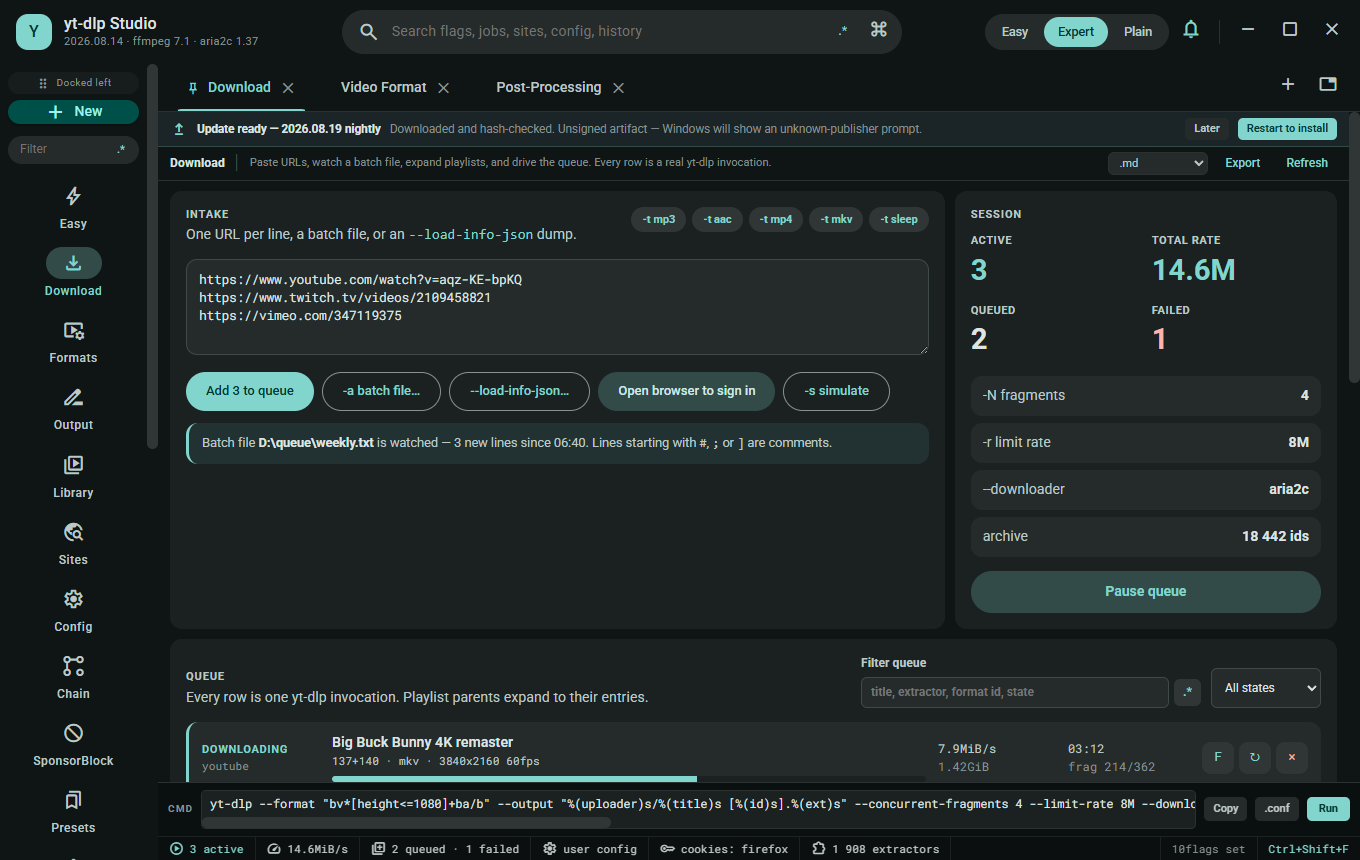
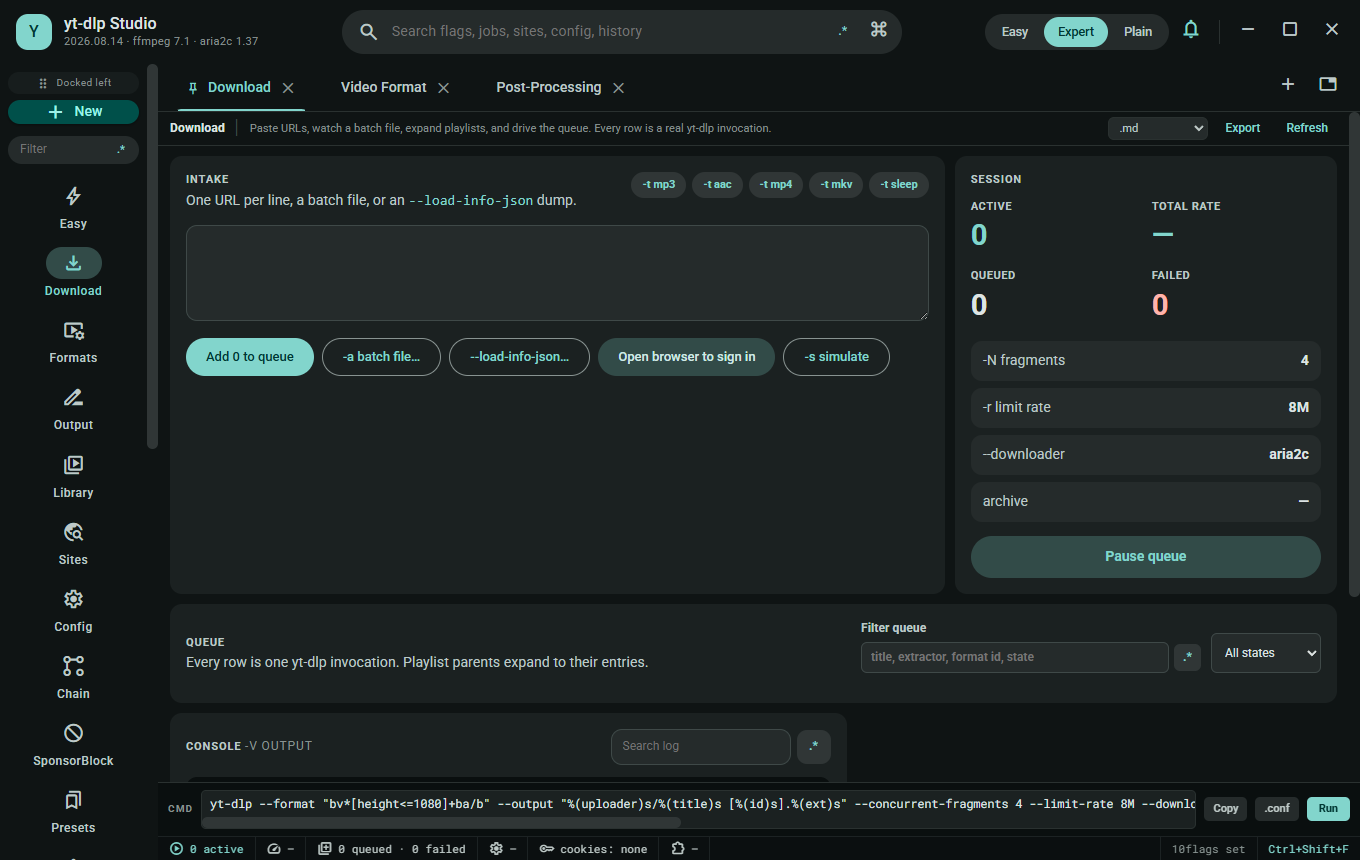
Stop the application inventing the user's own activity
A fresh install opened onto three downloads in progress, a transfer rate nothing
was measuring, two queued items, one failure, a watched batch file at a path on
nobody's disk, an update offering to restart and install a version that does not
exist, and a status bar announcing it would read the user's Firefox cookies.
None of it was true. It was the design's demo data rendered as though it were
the user's own.

A sweep of the whole template found more of the same: a library listing six
files that were never downloaded, at real-looking paths, with a working delete
action pointed at them; a configuration table attributing flags to files that
were never read; five notifications about work nobody did; and a chapter list
for a video nobody opened.

Every one of those surfaces is kept and now starts empty, because the fix is to
stop seeding them rather than to remove them. Where a figure cannot be real yet
it renders a dash. A dash is honest; a plausible number is a claim.

一開就話你知有三個下載緊、Firefox cookie 又攞緊——全部係假嘅。
最弊嗰個係 Library：六個唔存在嘅檔案，仲要有粒「刪除檔案」掣真係撳得。

diff --git a/app/src/renderer/index.html b/app/src/renderer/index.html
@@ -4,6 +4,7 @@
 <meta charset="utf-8">
 <meta http-equiv="Content-Security-Policy" content="default-src 'self'; script-src 'self' 'unsafe-eval'; style-src 'self' 'unsafe-inline'; font-src 'self'; img-src 'self' data:; connect-src 'self'" />
 <meta name="viewport" content="width=device-width, initial-scale=1">
+<title>yt-dlp Studio</title>
 <script src="./dc-resources.js"></script>
 <script src="./dc-support.js"></script>
 </head>
@@ -224,7 +225,7 @@
               <div style="display:grid;grid-template-columns:1fr 1fr;gap:10px;margin-top:20px">
                 <label style="display:grid;gap:5px;font-weight:700;font-size:12px;color:#bec9c7">Save to
                   <div style="display:flex;gap:6px">
-                    <input value="{{ easyFolder }}" onChange="{{ setEasyFolder }}" style="flex:1;min-width:0;background:#252b2b;border:1px solid #3f4948;border-radius:11px;color:#dee4e3;padding:11px 12px;font-family:'Roboto Mono',Consolas,monospace;font-size:12.5px" />
+                    <input value="{{ easyFolder }}" onChange="{{ setEasyFolder }}" placeholder="D:\media\%(uploader)s" style="flex:1;min-width:0;background:#252b2b;border:1px solid #3f4948;border-radius:11px;color:#dee4e3;padding:11px 12px;font-family:'Roboto Mono',Consolas,monospace;font-size:12.5px" />
                     <button onClick="{{ browseFolder }}" style="padding:0 14px;border-radius:11px;background:#303636;color:#82d5cc;font-weight:700">…</button>
                   </div>
                 </label>
@@ -313,9 +314,11 @@
                     <button onClick="{{ openLogin }}" style="padding:9px 20px;border-radius:20px;font-weight:500;font-size:13px;background:#324b48;color:#cfe9e5">Open browser to sign in</button>
                     <button onClick="{{ simulateRun }}" style="padding:9px 20px;border-radius:20px;font-weight:500;font-size:13px;background:transparent;border:1px solid #889391;color:#82d5cc">-s simulate</button>
                   </div>
+                  <sc-if value="{{ hasBatchWatch }}" hint-placeholder-val="{{ false }}">
                   <div style="margin-top:12px;padding:11px 13px;border-radius:12px;background:#223131;border-left:3px solid #82d5cc;color:#bec9c7;font-size:12.5px">
                     Batch file <b style="color:#dee4e3">D:\queue\weekly.txt</b> is watched — 3 new lines since 06:40. Lines starting with <code>#</code>, <code>;</code> or <code>]</code> are comments.
                   </div>
+                  </sc-if>
                 </section>
 
                 <section style="grid-column:span 4;background:#1b2121;border:0;border-radius:12px;padding:16px">
@@ -330,7 +333,7 @@
                     <div style="display:flex;justify-content:space-between;padding:10px 12px;border-radius:11px;background:#252b2b"><span style="color:#bec9c7">-N fragments</span><b>4</b></div>
                     <div style="display:flex;justify-content:space-between;padding:10px 12px;border-radius:11px;background:#252b2b"><span style="color:#bec9c7">-r limit rate</span><b>8M</b></div>
                     <div style="display:flex;justify-content:space-between;padding:10px 12px;border-radius:11px;background:#252b2b"><span style="color:#bec9c7">--downloader</span><b>aria2c</b></div>
-                    <div style="display:flex;justify-content:space-between;padding:10px 12px;border-radius:11px;background:#252b2b"><span style="color:#bec9c7">archive</span><b>18 442 ids</b></div>
+                    <div style="display:flex;justify-content:space-between;padding:10px 12px;border-radius:11px;background:#252b2b"><span style="color:#bec9c7">archive</span><b>—</b></div>
                   </div>
                   <button onClick="{{ togglePause }}" style="width:100%;margin-top:14px;padding:11px;border-radius:22px;font-weight:700;background:#324b48;color:#82d5cc">{{ pauseLabel }}</button>
                 </section>
@@ -406,6 +409,7 @@
                   </div>
                 </section>
 
+                <sc-if value="{{ hasChapterData }}" hint-placeholder-val="{{ false }}">
                 <section style="grid-column:span 5;background:#1b2121;border:0;border-radius:12px;padding:16px">
                   <h2 style="font-size:11px;margin:0 0 9px;letter-spacing:.9px;text-transform:uppercase;color:#bec9c7;font-weight:800">Chapters &amp; SponsorBlock</h2>
                   <p style="margin:0 0 14px;color:#bec9c7;font-size:12.5px">Big Buck Bunny — 10:34. Segments from the SponsorBlock API; mark and remove policy applies at post-process.</p>
@@ -425,6 +429,7 @@
                     </sc-for>
                   </div>
                 </section>
+                </sc-if>
 
               </div>
             </sc-if>
@@ -2019,6 +2024,26 @@ class Component extends DCLogic {
   // app/src/renderer/commandBuilder.ts's parsePlainCommand, translated to
   // plain JS since this code runs inside the design's own runtime rather
   // than through the TypeScript build.
+  // Sums the real per-job rate strings ('7.9MiB/s', '4.1MiB/s', ...) that
+  // arrive from window.ytdlpStudio.jobs.onProgress, rather than the
+  // design's fixed '14.6MiB/s' demo figure. Returns a dash when nothing
+  // is actually downloading, since a rate of 0.0MiB/s still implies
+  // something is being measured.
+  _totalRateLabel(activeJobs) {
+    const parse = (r) => {
+      const m = /([d.]+)s*([KMG]?)i?B/s/i.exec(String(r || ''));
+      if (!m) return 0;
+      const mult = { K: 1024, M: 1024 * 1024, G: 1024 * 1024 * 1024 }[m[2].toUpperCase()] || 1;
+      return parseFloat(m[1]) * mult;
+    };
+    const totalBytes = (activeJobs || []).reduce((sum, j) => sum + parse(j.rate), 0);
+    if (!totalBytes) return '—';
+    if (totalBytes >= 1024 * 1024 * 1024) return (totalBytes / 1024 / 1024 / 1024).toFixed(1) + 'GiB/s';
+    if (totalBytes >= 1024 * 1024) return (totalBytes / 1024 / 1024).toFixed(1) + 'MiB/s';
+    if (totalBytes >= 1024) return (totalBytes / 1024).toFixed(1) + 'KiB/s';
+    return Math.round(totalBytes) + 'B/s';
+  }
+
   _tokenize(line) {
     const argv = [];
     let cur = '', inS = false, inD = false, has = false;
@@ -2208,9 +2233,9 @@ class Component extends DCLogic {
   state = {
     mode: 'easy', view: 'download', groupId: 'general',
     groups: [], presets: [],
-    easyUrl: 'https://www.youtube.com/@blenderfoundation',
+    easyUrl: '',
     easyQuality: 'best', easyScope: 'latest', easyLimit: '20', easyAfter: '',
-    easyArchive: 'yes', easyFolder: 'D:\\media\\%(uploader)s', easySubs: true,
+    easyArchive: 'yes', easyFolder: '', easySubs: true,
     easyThumb: true, easySponsor: true, easyRuns: [],
     values: {
       '--format': 'bv*[height<=1080]+ba/b', '--output': '%(uploader)s/%(title)s [%(id)s].%(ext)s',
@@ -2218,7 +2243,7 @@ class Component extends DCLogic {
       '--embed-metadata': true, '--embed-thumbnail': true, '--sponsorblock-mark': 'all,-preview',
       '--download-archive': 'D:\\media\\archive.txt', '--merge-output-format': 'mkv',
     },
-    urls: 'https://www.youtube.com/watch?v=aqz-KE-bpKQ\nhttps://www.twitch.tv/videos/2109458821\nhttps://vimeo.com/347119375',
+    urls: '',
     tabs: [
       { id: 1, label: 'Download', view: 'download', pinned: true },
       { id: 2, label: 'Video Format', view: 'group', groupId: 'format' },
@@ -2228,7 +2253,7 @@ class Component extends DCLogic {
     dialog: null, regexTarget: null, regexPattern: '(?i)\\b(4k|2160p)\\b', regexFlags: 'iu',
     regexSample: 'Big Buck Bunny 4K remaster [aqz-KE-bpKQ]',
     paletteQuery: '', queueSearch: '', queueState: 'all', logSearch: '', flagSearch: '',
-    setOnly: false, exportFormat: 'md', updateBanner: true, paused: false,
+    setOnly: false, exportFormat: 'md', updateBanner: false, paused: false,
     globalSearch: '', railSearch: '', menuSearch: '', menu: null,
     formatExpr: 'bv*[height<=1080][vcodec^=avc1]+ba[acodec^=mp4a]/b',
     sortExpr: 'res:1080,fps,hdr:12,vcodec:h264',
@@ -2236,41 +2261,12 @@ class Component extends DCLogic {
     formatSearch: '', outTemplate: '%(uploader)s/%(playlist|)s/%(title)s [%(id)s].%(ext)s',
     fieldSearch: '', librarySearch: '', siteSearch: '', configSearch: '', historySearch: '',
     historySurf: 'all', historyKind: 'All', historyPinnedOnly: false, historySel: {}, historyOpen: 'h2',
-    historyPins: { h9: true }, historyLive: true, historyKeep: '90 days', historyCollapsed: {},
+    historyPins: {}, historyLive: true, historyKeep: '90 days', historyCollapsed: {},
     settingsSearch: '', ppSearch: '', configFile: 'user',
     toasts: [], loginCookieCount: 0,
-    jobs: [
-      { id: 'a', state: 'downloading', extractor: 'youtube', title: 'Big Buck Bunny 4K remaster', detail: '137+140 · mkv · 3840x2160 60fps', pct: 61.4, rate: '7.9MiB/s', size: '1.42GiB', eta: '03:12', frags: 'frag 214/362' },
-      { id: 'b', state: 'downloading', extractor: 'twitch:vod', title: 'Speedrun marathon — day 2 VOD', detail: 'hls-1080p60 · mp4 · 1920x1080', pct: 23.8, rate: '4.1MiB/s', size: '6.02GiB', eta: '21:46', frags: 'frag 89/1204' },
-      { id: 'c', state: 'downloading', extractor: 'vimeo', title: 'Colour grading reel 2025', detail: 'http-1080p+audio · mp4', pct: 88.1, rate: '2.6MiB/s', size: '742MiB', eta: '00:34', frags: 'frag 51/58' },
-      { id: 'd', state: 'queued', extractor: 'soundcloud', title: 'Late night set — 3 hours', detail: 'ba/b · -x --audio-format flac', pct: 0, rate: '—', size: '~1.1GiB', eta: 'waiting', frags: 'slot 1 of 4' },
-      { id: 'e', state: 'queued', extractor: 'youtube:tab', title: 'Channel backlog (playlist, 40 entries)', detail: '-I 1:40 · --lazy-playlist', pct: 0, rate: '—', size: '~22GiB', eta: 'waiting', frags: 'entry 0/40' },
-      { id: 'f', state: 'done', extractor: 'youtube', title: 'Keynote 2026 — full session', detail: 'merged mkv · SponsorBlock removed 4 segments', pct: 100, rate: '—', size: '3.31GiB', eta: 'done', frags: 'post-processed' },
-      { id: 'g', state: 'done', extractor: 'bilibili', title: 'Documentary ep. 4 (subs: zh-Hans, en)', detail: 'embedded subs · --convert-subs srt', pct: 100, rate: '—', size: '1.08GiB', eta: 'done', frags: 'post-processed' },
-      { id: 'h', state: 'done', extractor: 'generic', title: 'Conference stream mirror', detail: 'm3u8_native · mpegts', pct: 100, rate: '—', size: '498MiB', eta: 'done', frags: 'post-processed' },
-      { id: 'i', state: 'error', extractor: 'nebula', title: 'Members-only episode 12', detail: 'ERROR: This video is only available to subscribers', pct: 42, rate: '—', size: '—', eta: 'failed', frags: 'HTTP 403 after 10 retries' },
-    ],
-    log: [
-      ['[debug] Command-line config: [-f, bv*[height<=1080]+ba/b, --embed-metadata]', '#889391'],
-      ['[debug] Loaded 1908 extractors · plugin dirs: default', '#889391'],
-      ['[youtube] Extracting URL: https://www.youtube.com/watch?v=aqz-KE-bpKQ', '#bec9c7'],
-      ['[youtube] aqz-KE-bpKQ: Downloading webpage', '#bec9c7'],
-      ['[youtube] aqz-KE-bpKQ: Downloading tv client config', '#bec9c7'],
-      ['[info] aqz-KE-bpKQ: Downloading 1 format(s): 137+140', '#82d5cc'],
-      ['[download] Destination: Blender Foundation/Big Buck Bunny [aqz-KE-bpKQ].f137.mp4', '#dee4e3'],
-      ['[download]  61.4% of ~1.42GiB at 7.90MiB/s ETA 03:12 (frag 214/362)', '#dee4e3'],
-      ['[SponsorBlock] Found 4 segments in the SponsorBlock API', '#82d5cc'],
-      ['[nebula] ERROR: This video is only available to subscribers. Use --cookies-from-browser', '#ffb4ab'],
-      ['[debug] ffmpeg version 7.1 · Merger: mkv', '#889391'],
-    ],
-    timeline: [
-      { tag: 'INTRO', w: 9, color: '#82d5cc', title: 'Intro 0:00–0:57', range: '0:00 – 0:57', action: 'mark' },
-      { tag: 'SPONSOR', w: 14, color: '#ffb4ab', title: 'Sponsor 0:57–2:26', range: '0:57 – 2:26', action: 'remove' },
-      { tag: '', w: 32, color: '#303636', title: 'Content', range: '', action: '' },
-      { tag: 'SELF', w: 8, color: '#febc2e', title: 'Self promo 5:40–6:31', range: '5:40 – 6:31', action: 'remove' },
-      { tag: '', w: 26, color: '#303636', title: 'Content', range: '', action: '' },
-      { tag: 'OUTRO', w: 11, color: '#82d5cc', title: 'Outro 9:23–10:34', range: '9:23 – 10:34', action: 'mark' },
-    ],
+    jobs: [],
+    log: [],
+    timeline: [],
   };
 
   componentDidMount() {
@@ -3731,6 +3727,7 @@ class Component extends DCLogic {
         name: p.name, expands: p.expands, bg: '#303636', fg: '#82d5cc',
         apply: () => { this.toast('Preset applied', '-t ' + p.name + ' → ' + p.expands); },
       })),
+      hasBatchWatch: false,
       enqueue: () => this._wire.enqueue(this, s),
       pickBatch: () => this._wire.pickBatch(this),
       pickInfoJson: () => this._wire.pickInfoJson(this),
@@ -3738,7 +3735,7 @@ class Component extends DCLogic {
       simulateRun: () => this._wire.simulateRun(this, s),
       activeCount: activeJobs.length, queuedCount: s.jobs.filter(j => j.state === 'queued').length,
       errorCount: s.jobs.filter(j => j.state === 'error').length,
-      totalRate: '14.6M', pauseLabel: s.paused ? 'Resume queue' : 'Pause queue',
+      totalRate: this._totalRateLabel(activeJobs), pauseLabel: s.paused ? 'Resume queue' : 'Pause queue',
       togglePause: () => this._wire.togglePause(this),
       queueSearch: s.queueSearch, setQueueSearch: e => this.setState({ queueSearch: e.target.value }),
       queueState: s.queueState, setQueueState: e => this.setState({ queueState: e.target.value }),
@@ -3758,6 +3755,7 @@ class Component extends DCLogic {
       })),
       timeline: s.timeline.map(t => ({ ...t, width: t.w + '%' })),
       segments: s.timeline.filter(t => t.tag).map(t => ({ title: t.title.split(' ')[0], color: t.color, range: t.range, action: t.action })),
+      hasChapterData: s.timeline.length > 0,
 
       // group pages
       flagSearch: s.flagSearch, setFlagSearch: e => this.setState({ flagSearch: e.target.value }),
@@ -4004,12 +4002,7 @@ class Component extends DCLogic {
       librarySearch: s.librarySearch, setLibrarySearch: e => this.setState({ librarySearch: e.target.value }),
       openRegexLibrary: () => this.setState({ dialog: 'regex', regexTarget: 'library' }),
       libraryRows: [
-        ['Keynote 2026 — full session', 'D:\\media\\Conference\\Keynote 2026 [x8Kd2Lp].mkv', 'Conference Org', '3.31GiB', 'mkv', 'youtube x8Kd2Lp'],
-        ['Documentary ep. 4', 'D:\\media\\BiliBili\\Documentary ep 4 [BV1x4].mkv', 'CCTV Docs', '1.08GiB', 'mkv', 'BiliBili BV1x4'],
-        ['Conference stream mirror', 'D:\\media\\generic\\stream-mirror.mp4', 'generic', '498MiB', 'mp4', 'generic 9f2a1'],
-        ['Late night set — 3 hours', 'D:\\media\\SoundCloud\\Late night set.flac', 'DJ Nocturne', '1.14GiB', 'flac', 'soundcloud 88213'],
-        ['Big Buck Bunny 4K remaster', 'D:\\media\\Blender Foundation\\Big Buck Bunny [aqz-KE-bpKQ].mkv', 'Blender Foundation', '2.24GiB', 'mkv', 'youtube aqz-KE-bpKQ'],
-        ['Colour grading reel 2025', 'D:\\media\\Vimeo\\Colour grading reel.mp4', 'Studio Nine', '742MiB', 'mp4', 'vimeo 347119375'],
+
       ].filter(r => this.match(r.join(' '), s.librarySearch)).map(r => ({
         title: r[0], path: r[1], uploader: r[2], size: r[3], ext: r[4], archive: r[5],
         menu: e => this.openMenu(e, r[0], [
@@ -4022,7 +4015,7 @@ class Component extends DCLogic {
           { glyph: '×', label: 'Delete file from disk', color: '#ffb4ab', run: () => this.askDestructive('Delete from disk?', 'The file is removed permanently. The download archive entry stays unless you remove it separately.') },
         ]),
       })),
-      libraryCount: '6 of 1 204 files · 18 442 archive ids',
+      libraryCount: '0 of 0 files · — archive ids',
 
       siteSearch: s.siteSearch, setSiteSearch: e => this.setState({ siteSearch: e.target.value }),
       openRegexSites: () => this.setState({ dialog: 'regex', regexTarget: 'sites' }),
@@ -4191,14 +4184,7 @@ class Component extends DCLogic {
       exportConf: () => this._wire.exportConf(this, this.state.configBody !== undefined ? this.state.configBody : undefined, confLines),
       saveConf: () => this._wire.saveConf(this, s.configFile, confLines),
       effectiveRows: [
-        ['-f bv*[height<=1080]+ba/b', 'user', '#82d5cc'],
-        ['--merge-output-format mkv', 'user', '#dee4e3'],
-        ['-N 4', 'user', '#dee4e3'],
-        ['-r 8M', 'portable (overridden)', '#889391'],
-        ['--downloader aria2c', 'user', '#dee4e3'],
-        ['--sponsorblock-mark all,-preview', 'user', '#dee4e3'],
-        ['--cookies-from-browser firefox', 'user', '#dee4e3'],
-        ['--download-archive D:\\media\\archive.txt', 'command line', '#82d5cc'],
+
       ].filter(r => this.match(r.join(' '), s.configSearch)).map(r => ({
         line: r[0], from: r[1], color: r[2],
         menu: e => this.openMenu(e, r[0], [
@@ -4223,7 +4209,7 @@ class Component extends DCLogic {
             { glyph: '↓', label: 'Go to the queue', run: () => this.goto('download') },
             { glyph: '×', label: 'Cancel every active job', color: '#ffb4ab', run: () => this.toast('Safety gate', 'Cancelling all needs confirmation') },
           ]) },
-        { glyph: 'speed', text: '14.6MiB/s', color: '#bec9c7', title: 'Total download rate',
+        { glyph: 'speed', text: this._totalRateLabel(activeJobs), color: '#bec9c7', title: 'Total download rate',
           menu: e => this.openMenu(e, 'Rate', [
             { glyph: 'r', label: 'Change -r limit rate', run: () => this.goto('group', 'download') },
             { glyph: 'N', label: 'Change -N concurrent fragments', run: () => this.goto('group', 'download') },
@@ -4233,17 +4219,17 @@ class Component extends DCLogic {
             { glyph: '↻', label: 'Retry every failed job', run: () => this.toast('Retrying', 'All failed jobs requeued') },
             { glyph: '⌦', label: 'Clear completed', run: () => this.setState(st => ({ jobs: st.jobs.filter(j => j.state !== 'done') })) },
           ]) },
-        { glyph: 'settings', text: 'user config', color: '#bec9c7', title: 'Active configuration source',
+        { glyph: 'settings', text: '—', color: '#bec9c7', title: 'Active configuration source',
           menu: e => this.openMenu(e, 'Configuration', [
             { glyph: '↗', label: 'Open config files', run: () => this.goto('config') },
             { glyph: '⊘', label: '--ignore-config for this run', run: () => this.toast('--ignore-config', 'Config chain skipped') },
           ]) },
-        { glyph: 'key', text: s.loginCookieCount ? 'cookies: ' + s.loginCookieCount : 'cookies: firefox', color: '#bec9c7', title: 'Cookie source',
+        { glyph: 'key', text: s.loginCookieCount ? 'cookies: ' + s.loginCookieCount : (s.values['--cookies-from-browser'] || s.values['--cookies']) ? 'cookies: configured' : 'cookies: none', color: '#bec9c7', title: 'Cookie source',
           menu: e => this.openMenu(e, 'Cookies', [
             { glyph: '▤', label: 'Open browser to sign in', run: () => this.setState({ dialog: 'login' }) },
             { glyph: '⚿', label: 'Authentication options', run: () => this.goto('group', 'auth') },
           ]) },
-        { glyph: 'extension', text: '1 908 extractors', color: '#bec9c7', title: 'Loaded extractors',
+        { glyph: 'extension', text: '—', color: '#bec9c7', title: 'Loaded extractors',
           menu: e => this.openMenu(e, 'Extractors', [
             { glyph: '↗', label: 'Browse supported sites', run: () => this.goto('sites') },
             { glyph: '⚙', label: 'Extractor options', run: () => this.goto('group', 'extractor') },
@@ -4448,11 +4434,7 @@ class Component extends DCLogic {
       setNotificationSearch: e => this.setState({ notificationSearch: e.target.value }),
       openRegexNotifications: () => this.setState({ dialog: 'regex', regexTarget: 'notifications' }),
       notificationRows: [
-        ['✓', '#82d5cc', 'Archive updated', '18 442 ids · +3 this session', '08:41'],
-        ['!', '#ffb4ab', 'nebula job failed', 'HTTP 403 after 10 retries — auto-fix wizard available', '08:41'],
-        ['⬆', '#82d5cc', 'Update downloaded', '2026.08.19 nightly, unsigned, hash verified', '08:33'],
-        ['✓', '#82d5cc', 'Cookies handed back', '27 cookies written to yt.cookies.txt', '08:14'],
-        ['i', '#bec9c7', 'Format check', '2 formats rejected by --check-formats', '08:12'],
+
       ].filter(r => this.match(r.join(' '), s.notificationSearch || '')).map(r => ({
         glyph: r[0], color: r[1], title: r[2], body: r[3], time: r[4],
         menu: e => this.openMenu(e, r[2], [
